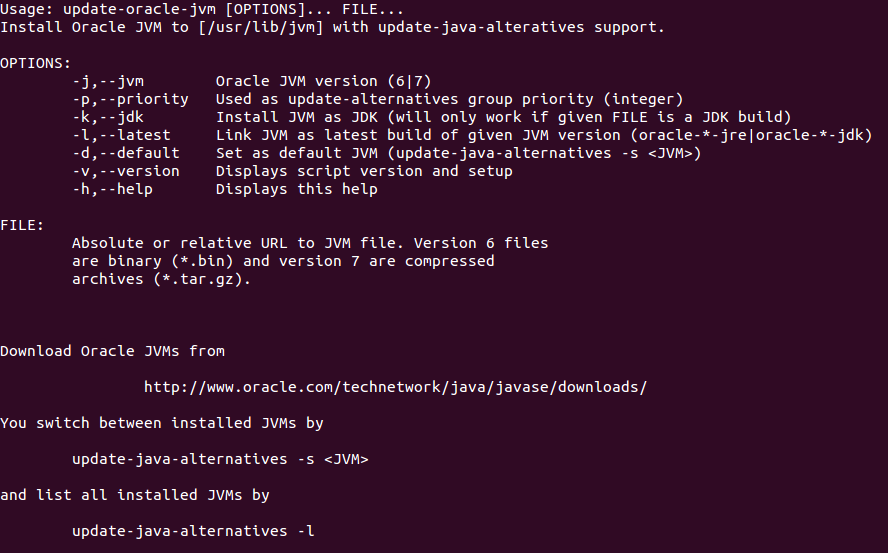
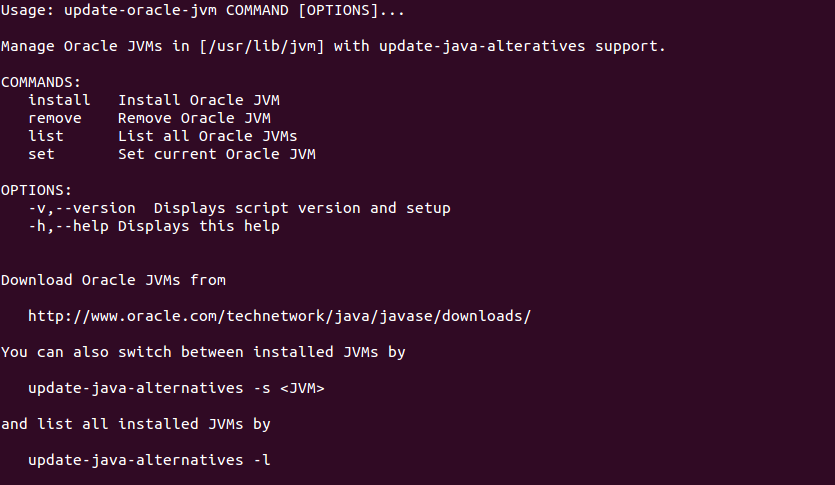
Added documentation for new commands

diff --git a/README.md b/README.md
@@ -6,9 +6,9 @@ Script for managing Oracle JVMs on Linux platforms (only tested on Ubuntu 12.04 
 Install
 =======
 
-1. Download [latest version](https://github.com/downloads/kengu/update-oracle-jvm/update-oracle-jvm-latest.bin)
+1. Download [latest version](https://dl.dropbox.com/u/14738337/git/update-oracle-jvm-latest.bin)
 ```
-wget https://github.com/downloads/kengu/update-oracle-jvm/update-oracle-jvm-latest.bin
+wget https://dl.dropbox.com/u/14738337/git/update-oracle-jvm-latest.bin
 ```
 2. Make binary executable
 ```
@@ -28,10 +28,15 @@ Usage
 update-oracle-jvm [OPTIONS] FILE
 ```
 
-Documentation (option -h)
-=========================
+Documentation (option -h or command `help [command]`)
+=====================================================
 
 ![update-oracle-jvm-help](https://github.com/kengu/update-oracle-jvm/blob/master/docs/help.png?raw=true)
+![update-oracle-jvm-help](https://github.com/kengu/update-oracle-jvm/blob/master/docs/help.png?raw=true)
+![update-oracle-jvm-help](https://github.com/kengu/update-oracle-jvm/blob/master/docs/install.png?raw=true)
+![update-oracle-jvm-help](https://github.com/kengu/update-oracle-jvm/blob/master/docs/remove.png?raw=true)
+![update-oracle-jvm-help](https://github.com/kengu/update-oracle-jvm/blob/master/docs/list.png?raw=true)
+![update-oracle-jvm-help](https://github.com/kengu/update-oracle-jvm/blob/master/docs/set.png?raw=true)
 
 Acknowledgements
 ================
